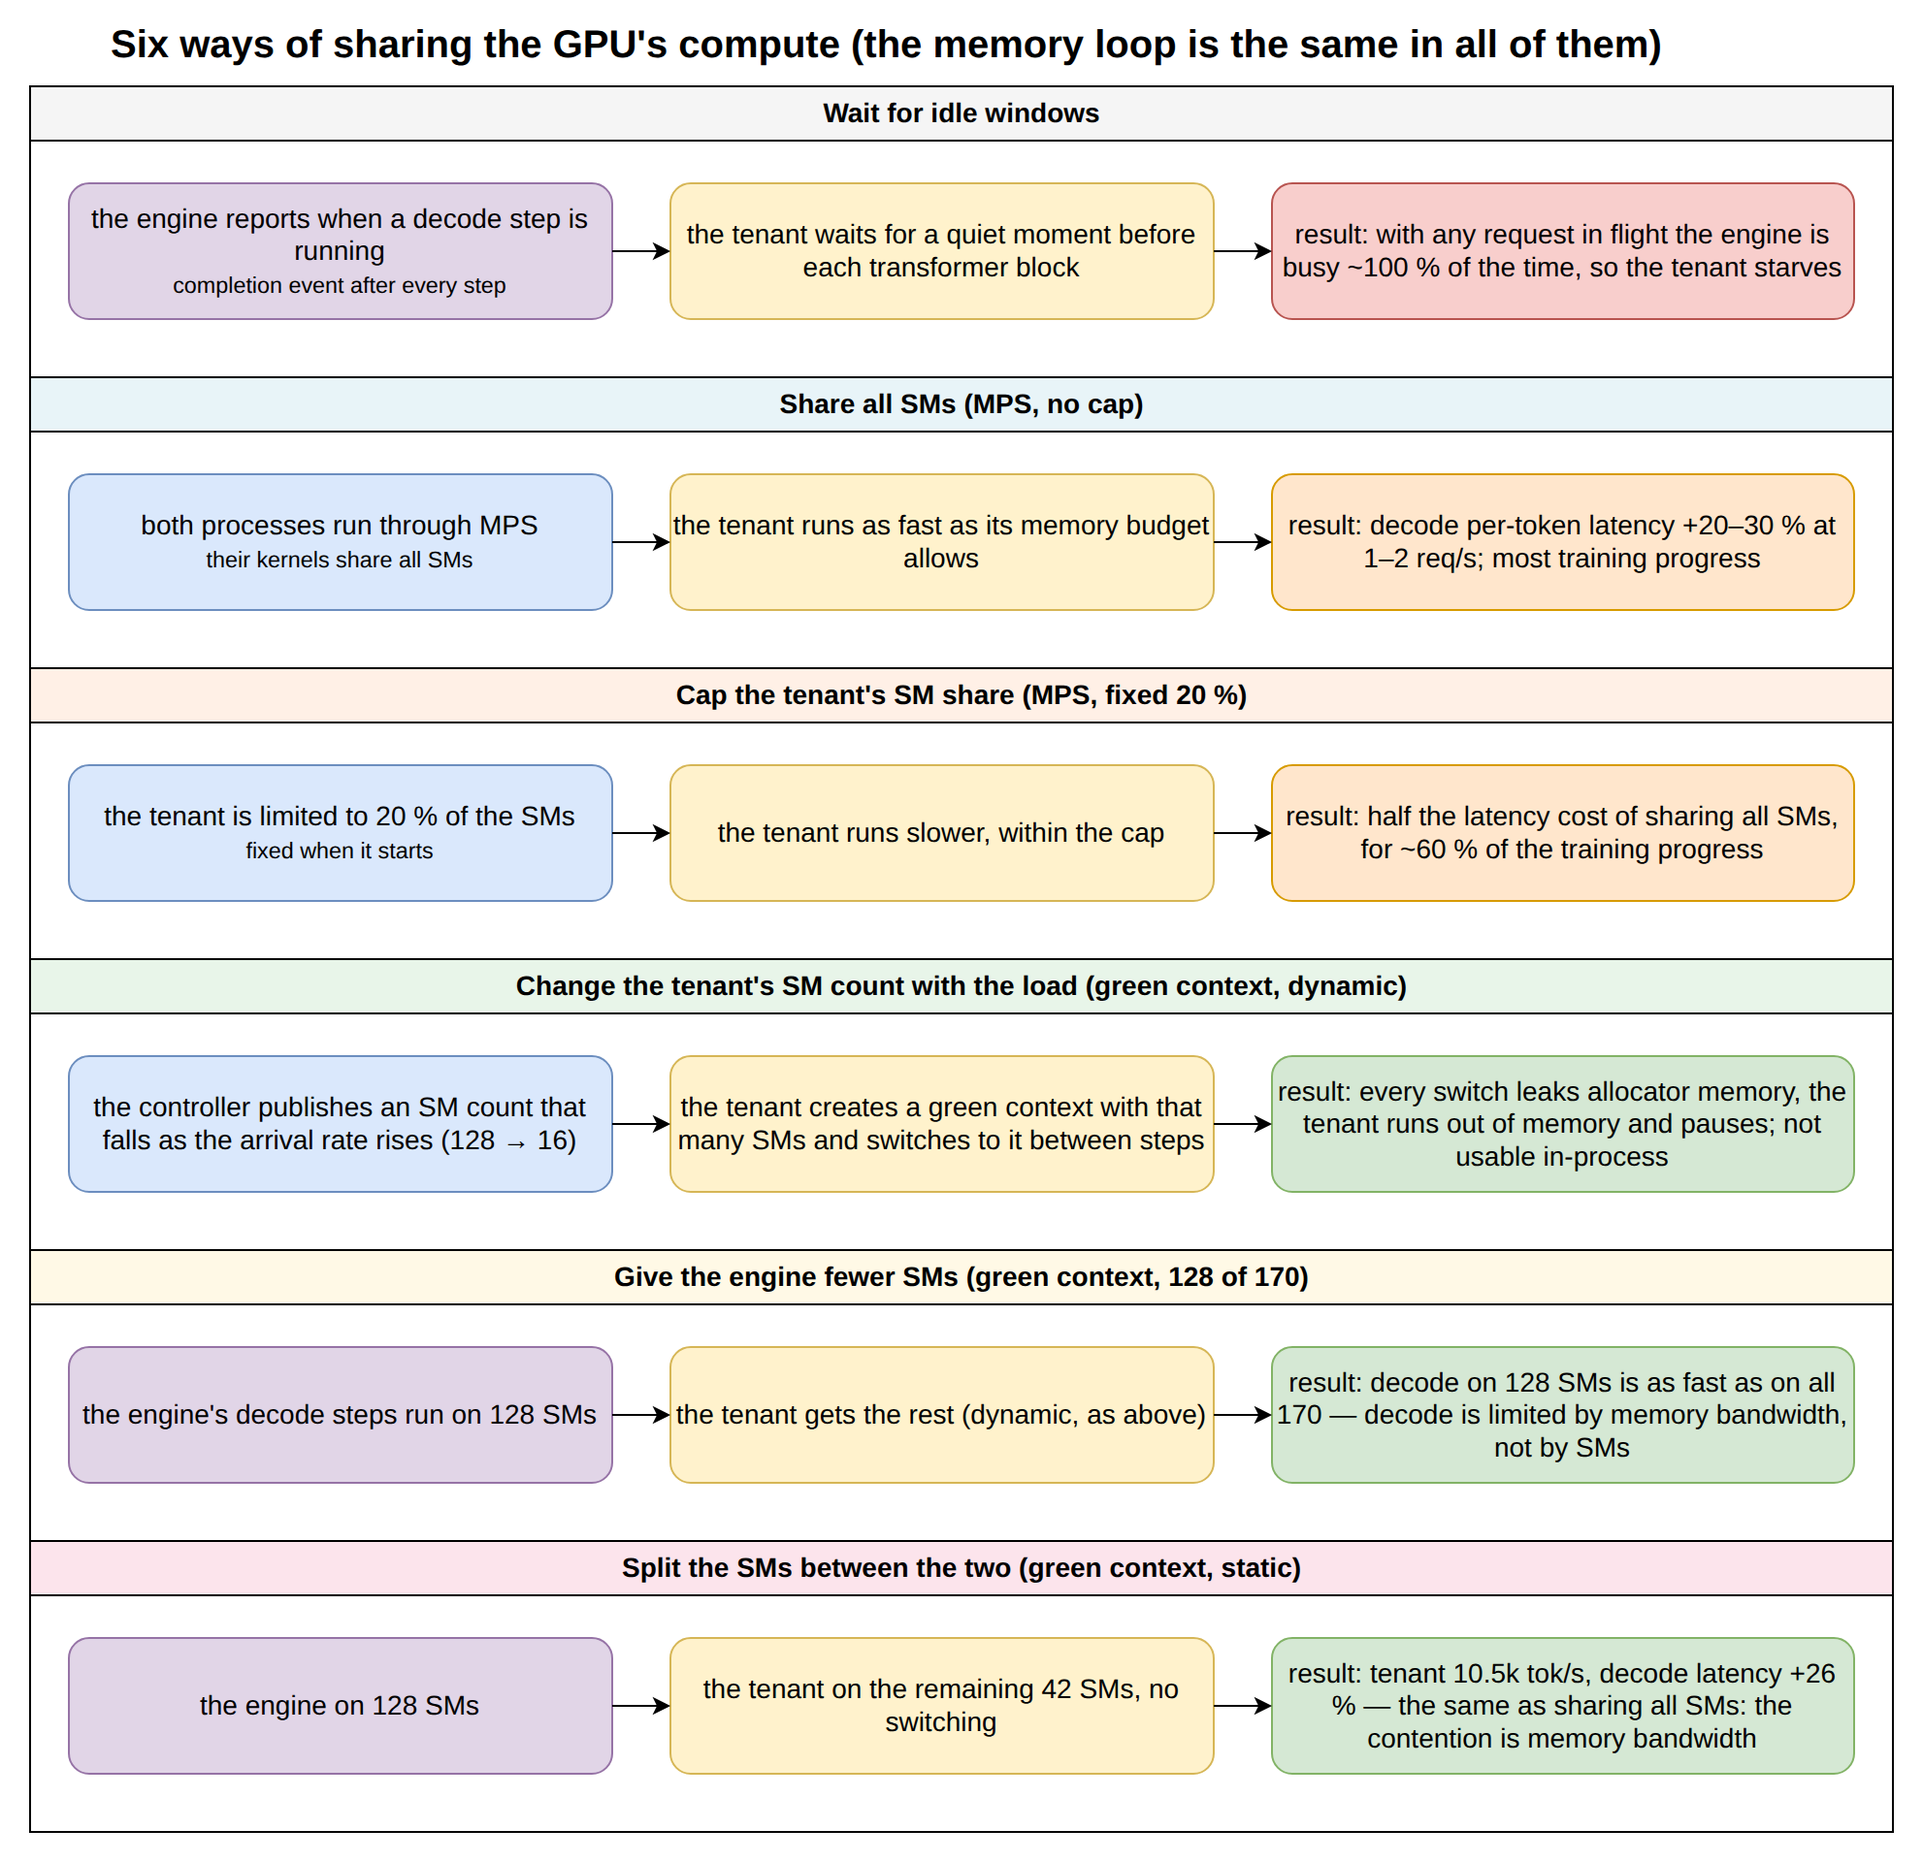
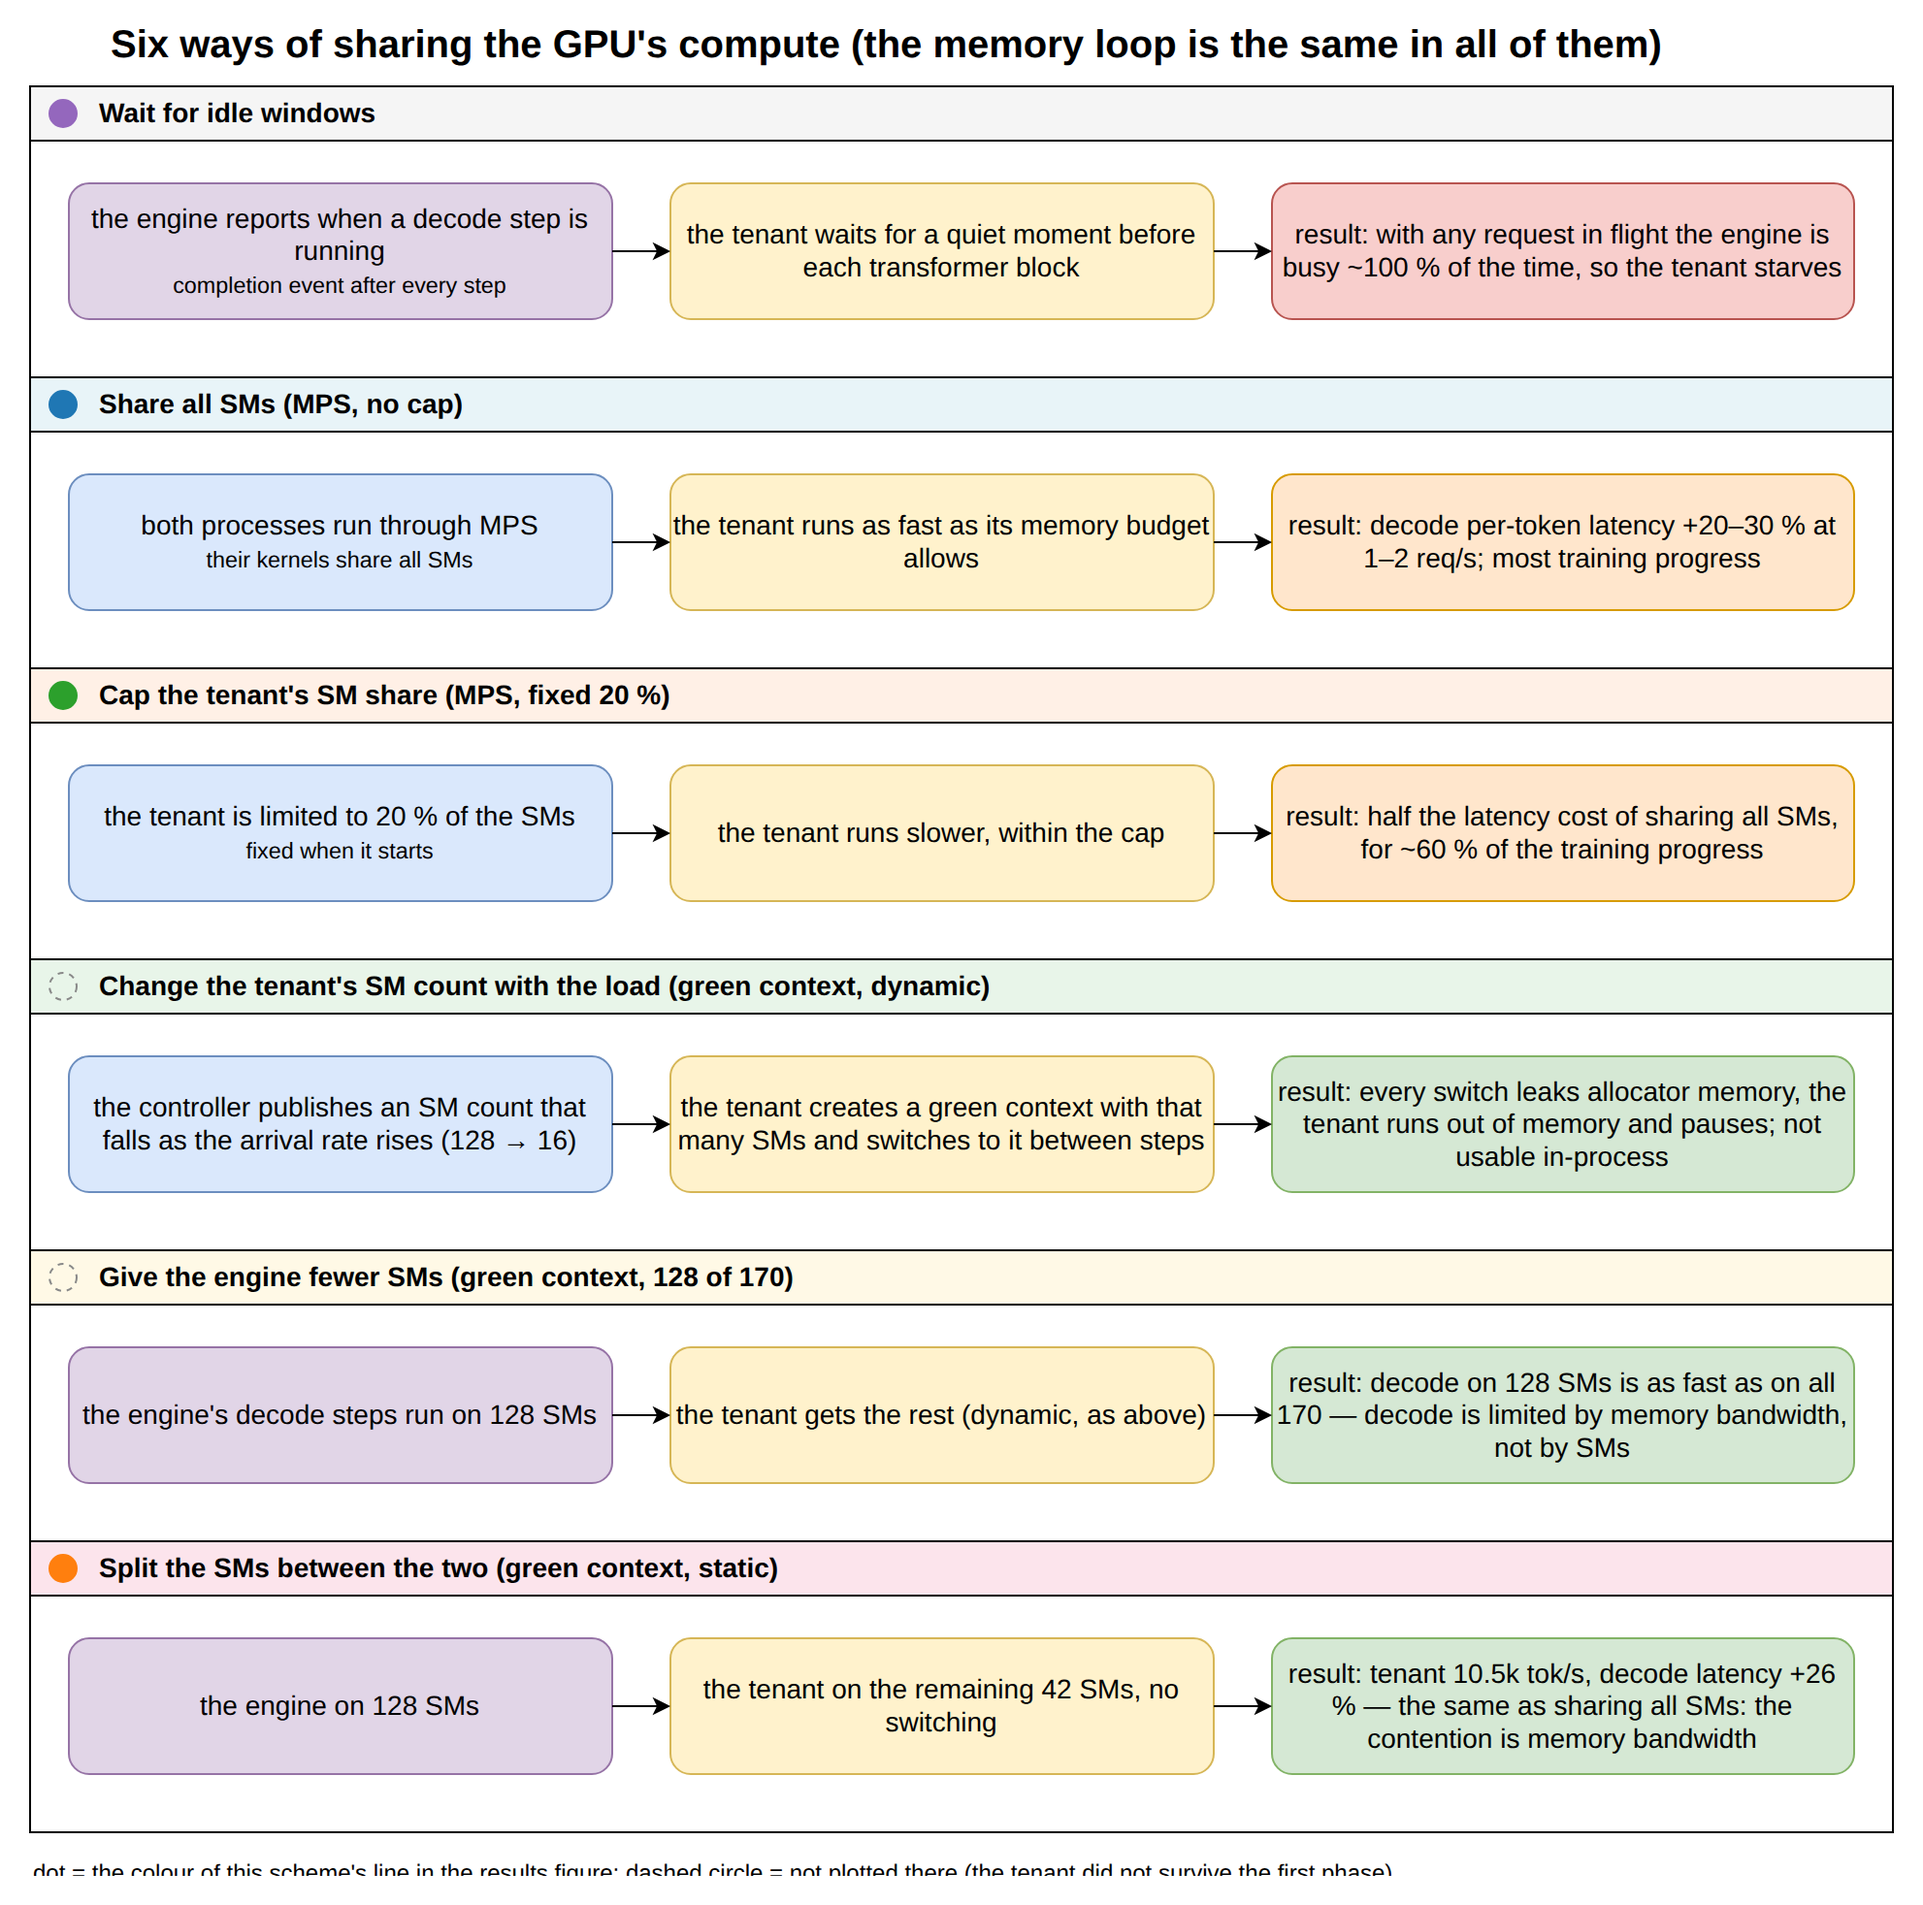
coloc_adjust diagram 4: colour dot before each scheme title matching its line in the results figure

diff --git a/coloc_adjust/report/REPORT.md b/coloc_adjust/report/REPORT.md
@@ -98,7 +98,7 @@ configuration.
 
 ![compute sharing](figures/04_compute_sharing.png)
 
-*Diagram 4 — the compute-sharing mechanisms tried (source `../diagrams/04_compute_sharing.drawio`); the memory loop is the same in all of them.*
+*Diagram 4 — the compute-sharing mechanisms tried (source `../diagrams/04_compute_sharing.drawio`); the memory loop is the same in all of them. The dot before each title is the colour of that scheme's line in Figure 1; a dashed circle marks the two schemes Figure 1 leaves out.*
 
 ![schemes](figures/arms.png)
 
